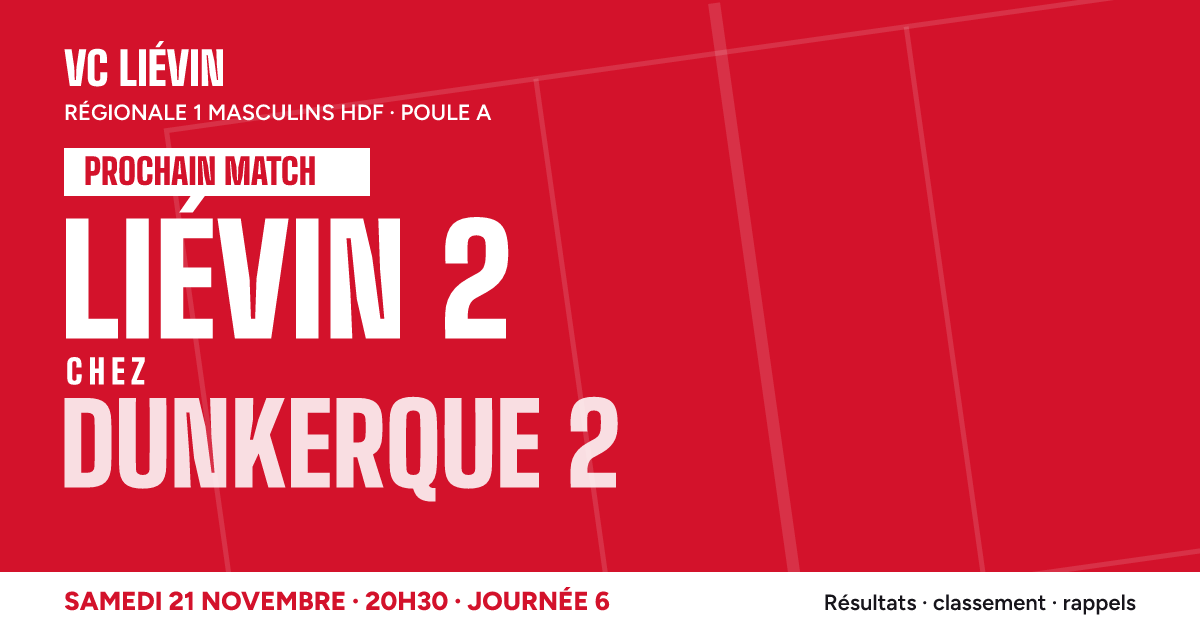
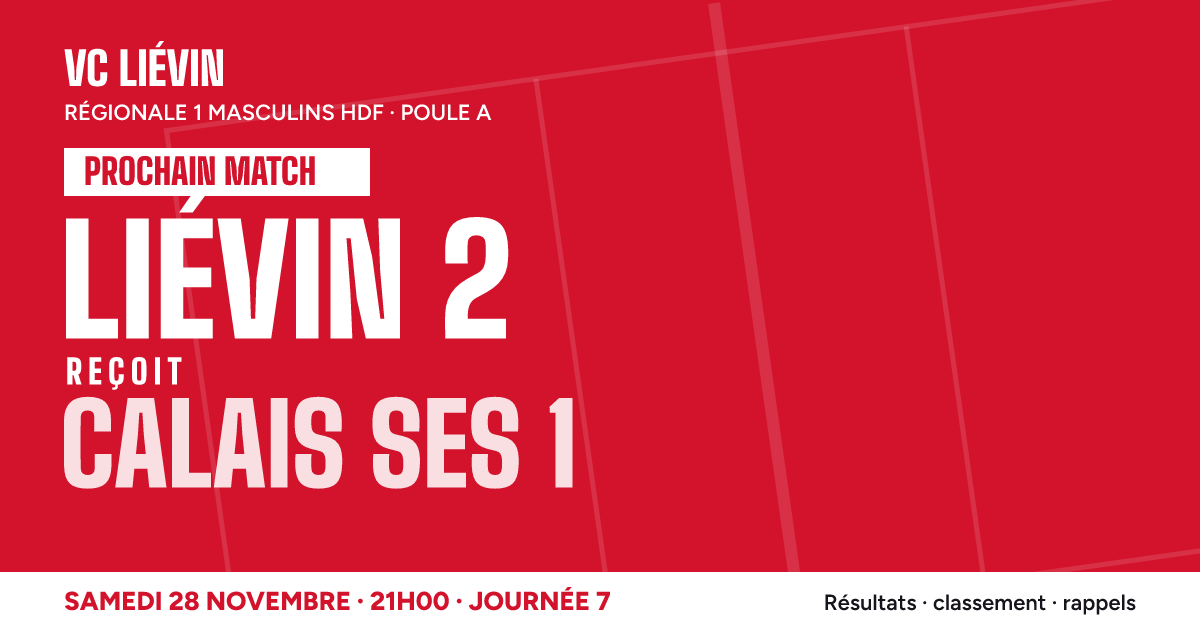
Données FFVB du 21/11/2026 23:00

Changed region(s): [[0.0617, 0.5429, 0.5242, 0.8143], [0.1542, 0.9349, 0.5242, 0.9651]]

diff --git a/index.html b/index.html
@@ -17,11 +17,11 @@
 <meta property="og:locale" content="fr_FR">
 <meta property="og:url" content="https://erazeh.github.io/vc-lievin/">
 <meta property="og:title" content="VC Liévin · Liévin 2">
-<meta property="og:description" content="Samedi 21 novembre · 20h30 · journée 6 : Dunkerque 2 – Liévin 2. Résultats, classement et rappels de match.">
-<meta property="og:image" content="https://erazeh.github.io/vc-lievin/assets/og.png?v=06a15f1d6d">
+<meta property="og:description" content="Samedi 28 novembre · 21h00 · journée 7 : Liévin 2 – Calais SES 1. Résultats, classement et rappels de match.">
+<meta property="og:image" content="https://erazeh.github.io/vc-lievin/assets/og.png?v=14e2f0250f">
 <meta property="og:image:width" content="1200">
 <meta property="og:image:height" content="630">
-<meta property="og:image:alt" content="Prochain match : Dunkerque 2 contre Liévin 2">
+<meta property="og:image:alt" content="Prochain match : Liévin 2 contre Calais SES 1">
 <meta name="twitter:card" content="summary_large_image">
 <!-- og:end -->
 <link rel="manifest" href="manifest.webmanifest">
